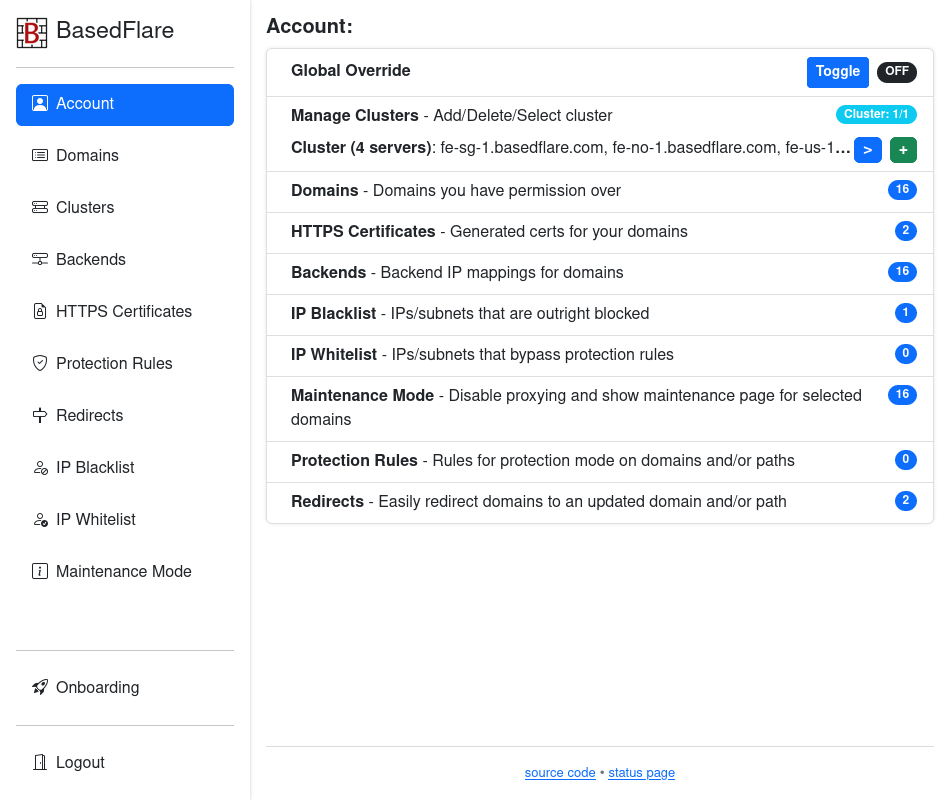
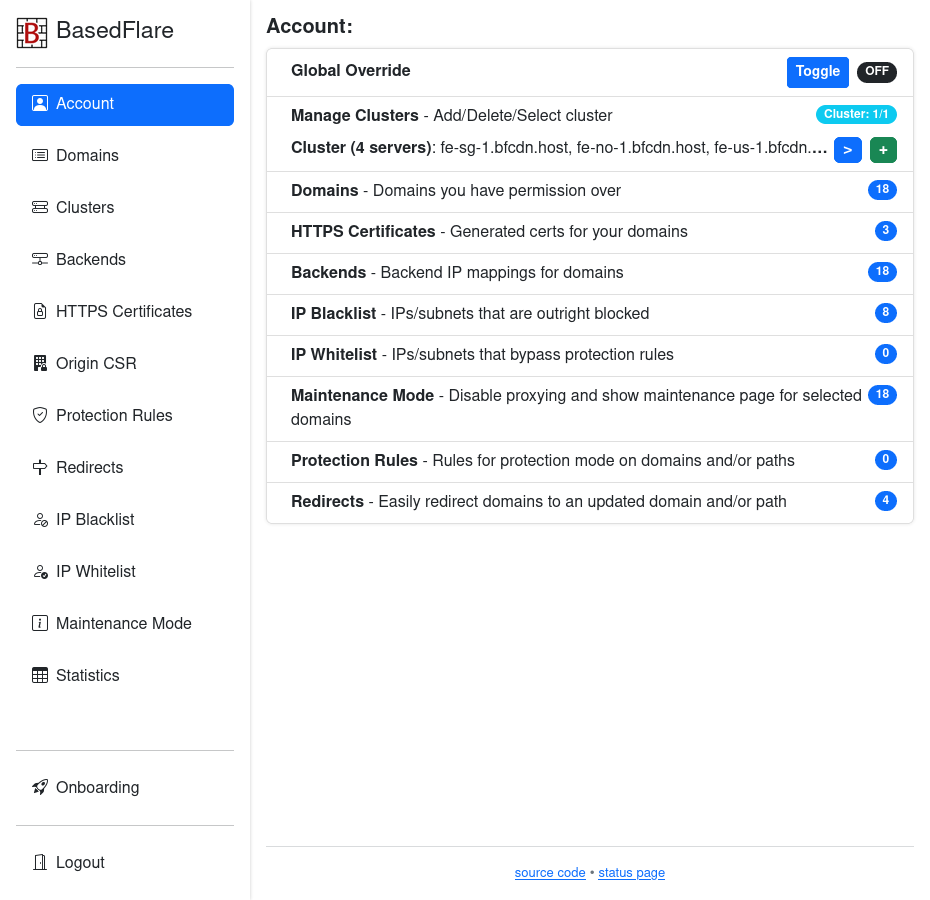
update README

diff --git a/README.md b/README.md
@@ -13,16 +13,16 @@ Provides a control panel interface to conveniently manage clusters (groups of id
 - Control allowed hosts for a cluster.
 - Custom backend server IP and port per-domain.
 - HTTPS certificate management. Automatically generate for domain(s) and upload to cluster servers.
+- Supports local private CA. Can install root cert on all your proxies and can sign CSR's for proper origin ssl validation.
 - IP or subnet blacklist. Supports ipv4 and ipv6.
 - IP or subnet whitelist. Supports ipv4 and ipv6.
 - Redirects, rewrites url to a different domain+path.
 - Protection rules, choose bot protection mode "none" (whitelist), proof-of-work or proof-of-work+captcha. Can be domain-wide or a domain+path. Path overrides domain-wide.
 - Global override for protection mode, to enable for all domains in a cluster.
 - Maintenance mode, disables proxying for selected domains and serves an "under maintenance" page from haproxy.
-- Statistics page with server and backend-level breakdowns based on haproxy stats socket data.
+- Statistics page with server and backend-level breakdowns based on haproxy stats socket data. Ability to export statistics to influxdb.
 
 ##### Todo:
-- Improved cert management
 - Better Multi-user support
   - allow domain/cluster editing (with user dupe check) for non-admins
   - problems w/ ip whitelist and blacklist
